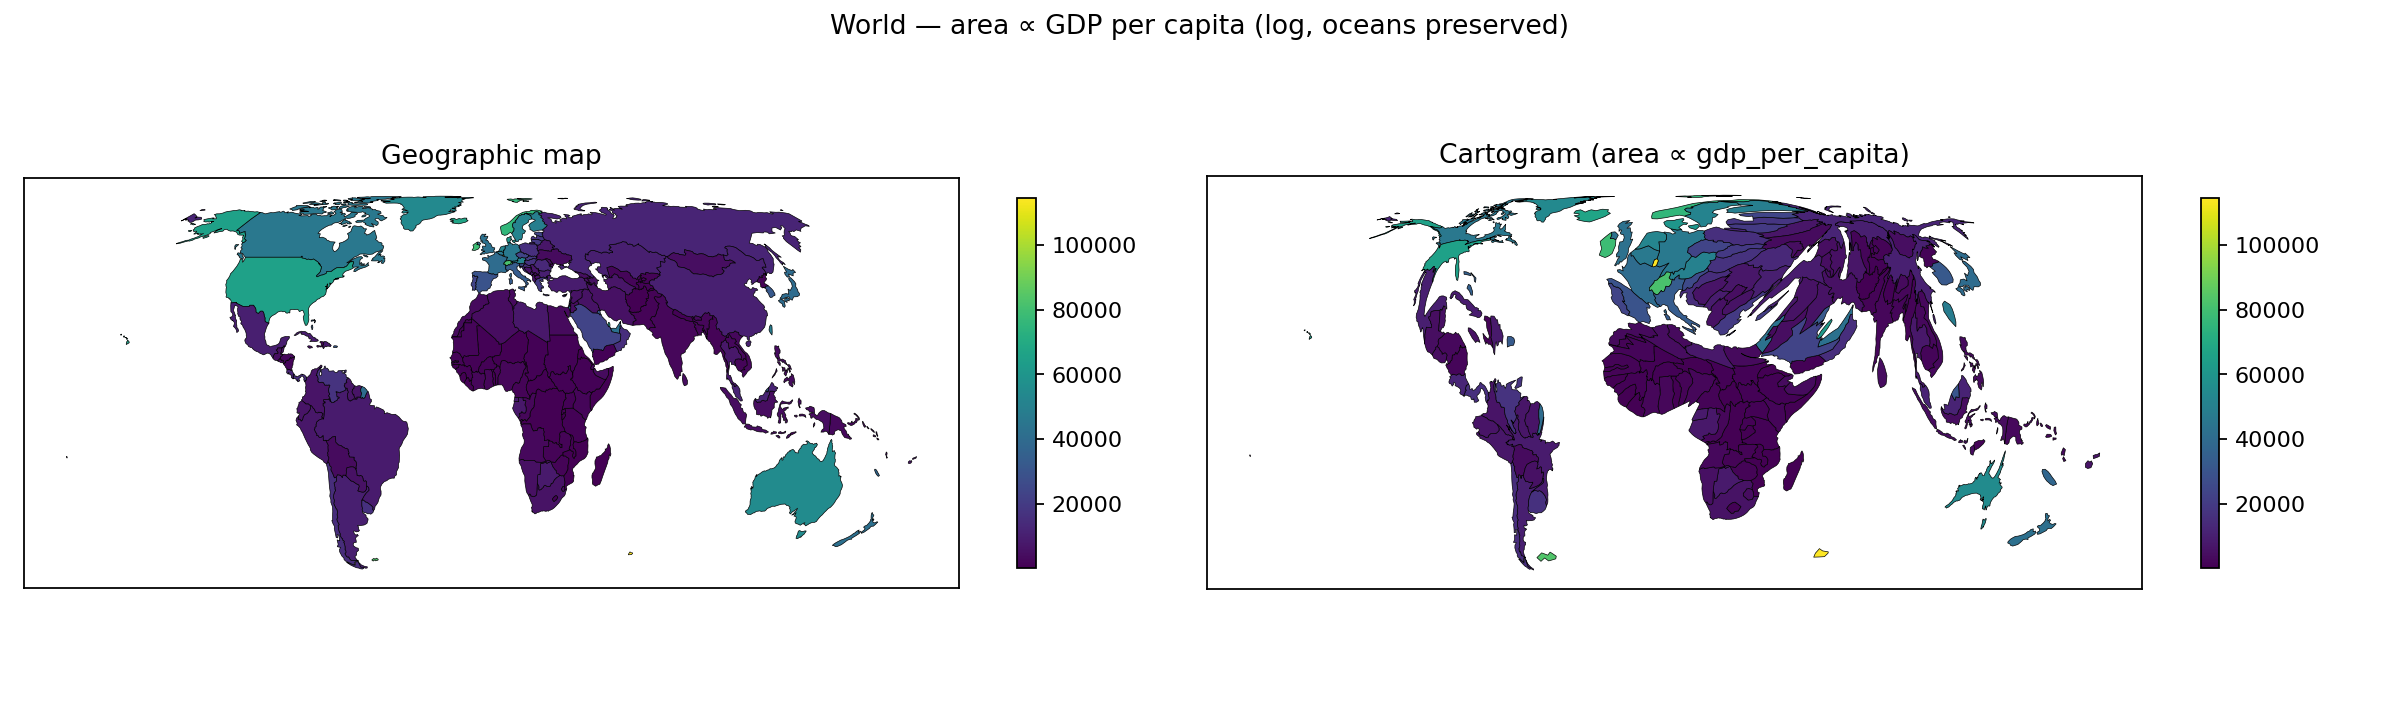
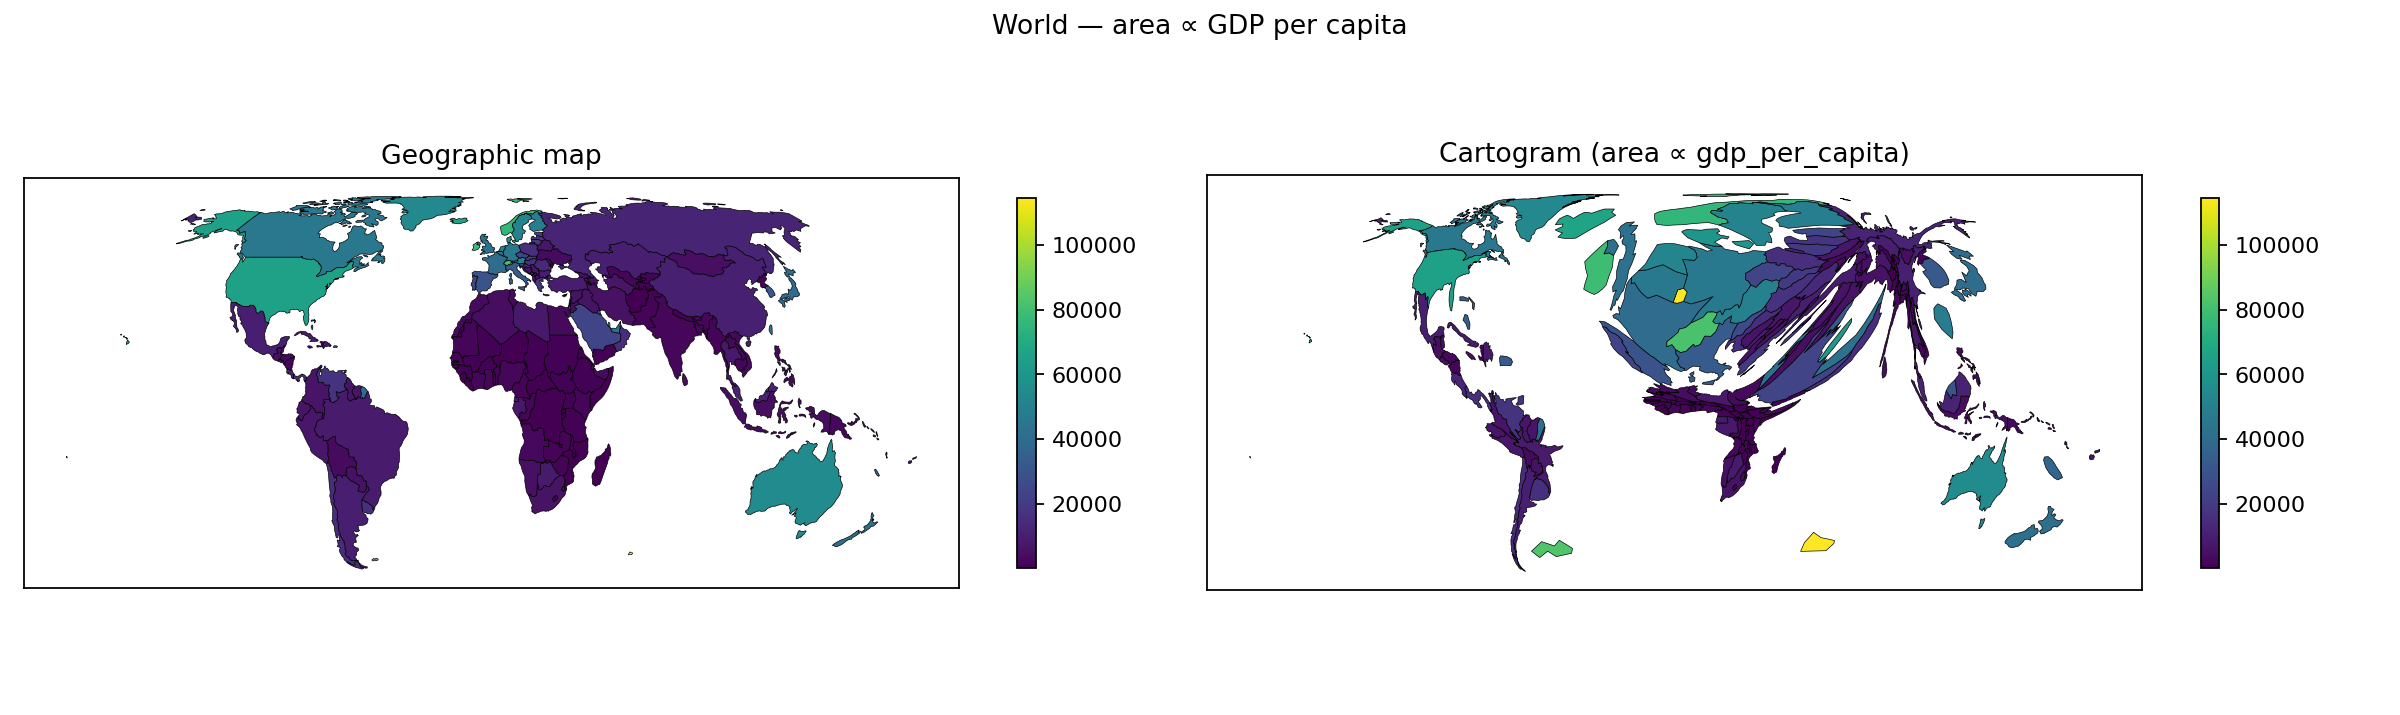
Fix GDP-per-capita cartogram: drop --log
The previous GDP-per-capita image applied log1p scaling, which
compressed the \$240-\$125k per-capita range into ~6-12 in log space.
Once log-compressed, the per-capita differences are comparable to the
per-cell-area variations, so the cartogram equalised density by
inflating the regions with the most low-value *land* (sub-Saharan
Africa) rather than the regions with the highest *value per capita*.
Visually this read as "Africa huge, Europe tiny", the opposite of
what a GDP-per-capita cartogram should show.

Regenerate docs/images/world_gdp_per_capita.png with raw values +
--min-floor 0.1 instead. North America, Western Europe, Australia
now expand; sub-Saharan Africa and South Asia shrink, as expected.

Also update the README caption and CLI example to stop advertising
--log for this particular quantity.

diff --git a/README.md b/README.md
@@ -40,9 +40,18 @@ The package ships with:
 
 ![World GDP cartogram](docs/images/world_gdp.png)
 
-### World — area ∝ GDP per capita (log-scaled)
+### World — area ∝ GDP per capita
 
 ![World GDP-per-capita cartogram](docs/images/world_gdp_per_capita.png)
+
+Note: this image is produced *without* `--log`. Log-scaling a heavy-tailed
+quantity like GDP/capita compresses the $240–$125 000 spread into the
+6–12 range, which is then barely distinguishable from the per-cell area
+noise and lets the cartogram inflate regions with large area rather
+than high value. For GDP/capita, raw values + a small `--min-floor`
+reproduces the expected picture (Europe / North America / Australia
+expanded; sub-Saharan Africa, South Asia, parts of Southeast Asia
+shrunk).
 
 ### World — population cartogram with Natural Earth shaded relief warped through the same deformation
 
@@ -262,7 +271,7 @@ warped = warp_image(cart, img, image_bbox=bbox)
 python -m cartogram world --value population --preserve-oceans --out pop.png
 python -m cartogram world --value gdp --preserve-oceans --out gdp.png
 python -m cartogram world --value gdp_per_capita \
-                          --log --min-floor 0.05 --preserve-oceans --out gpc.png
+                          --min-floor 0.1 --preserve-oceans --out gpc.png
 
 # Any CSV with ISO_A3 + value columns:
 python -m cartogram world --value custom \
